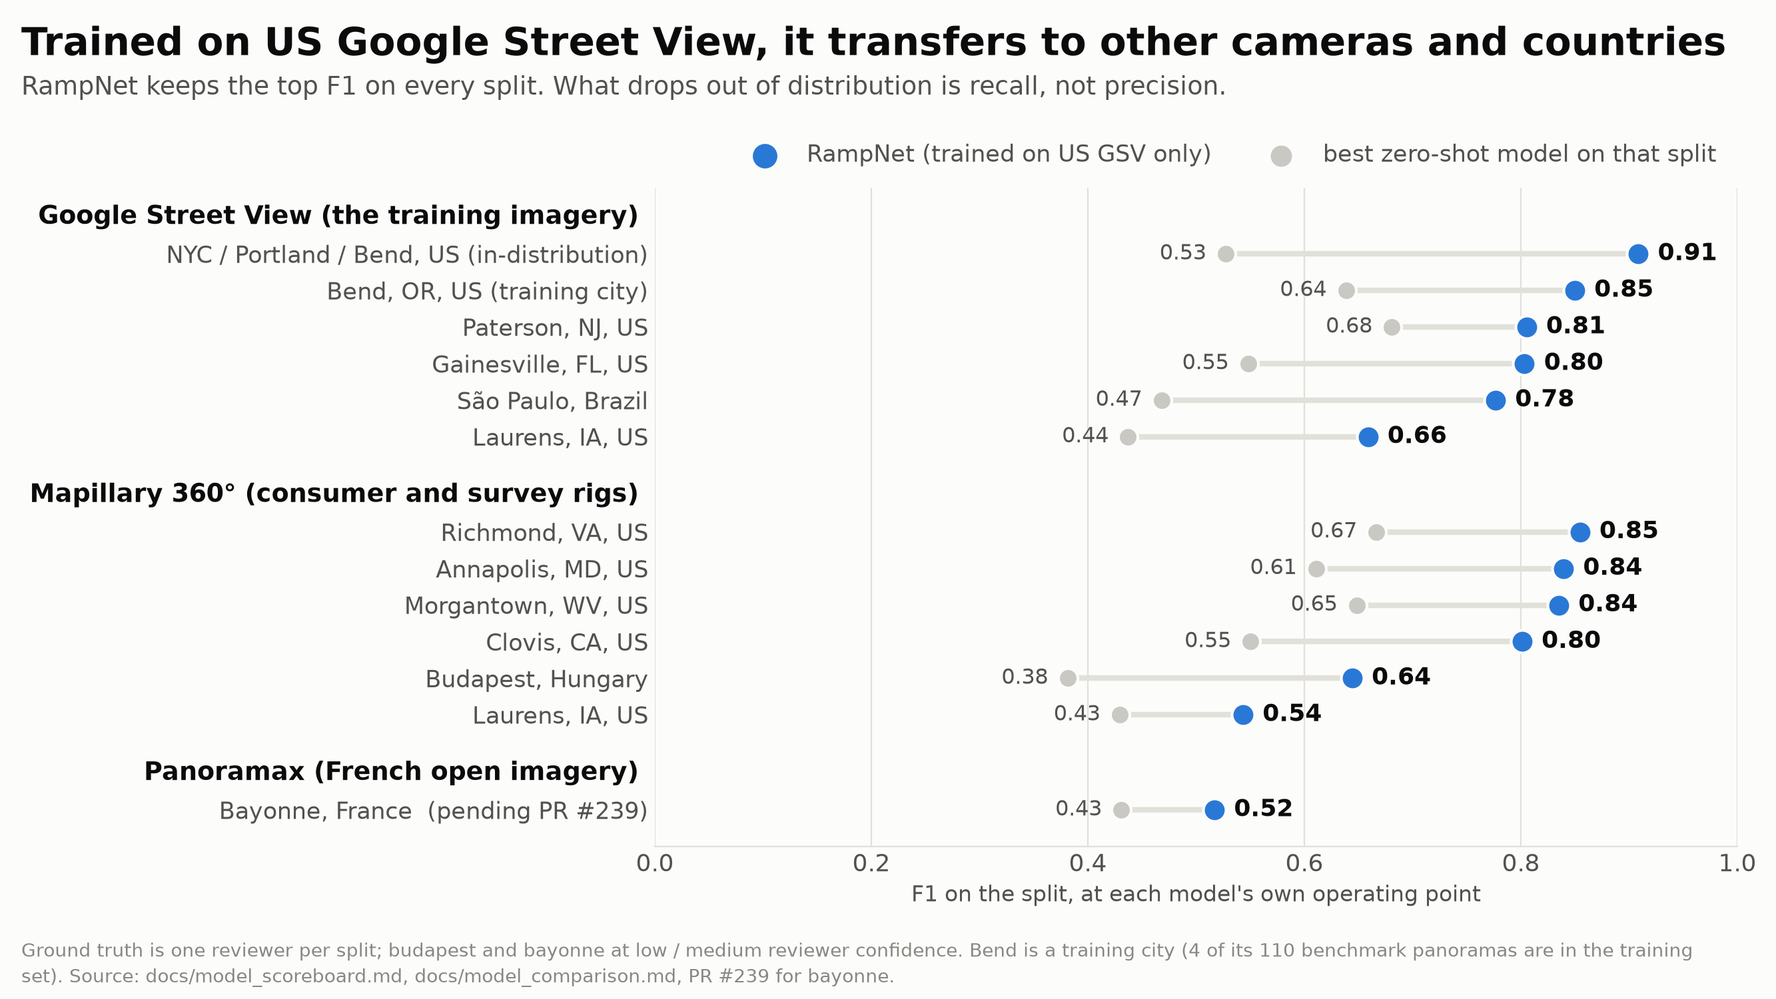
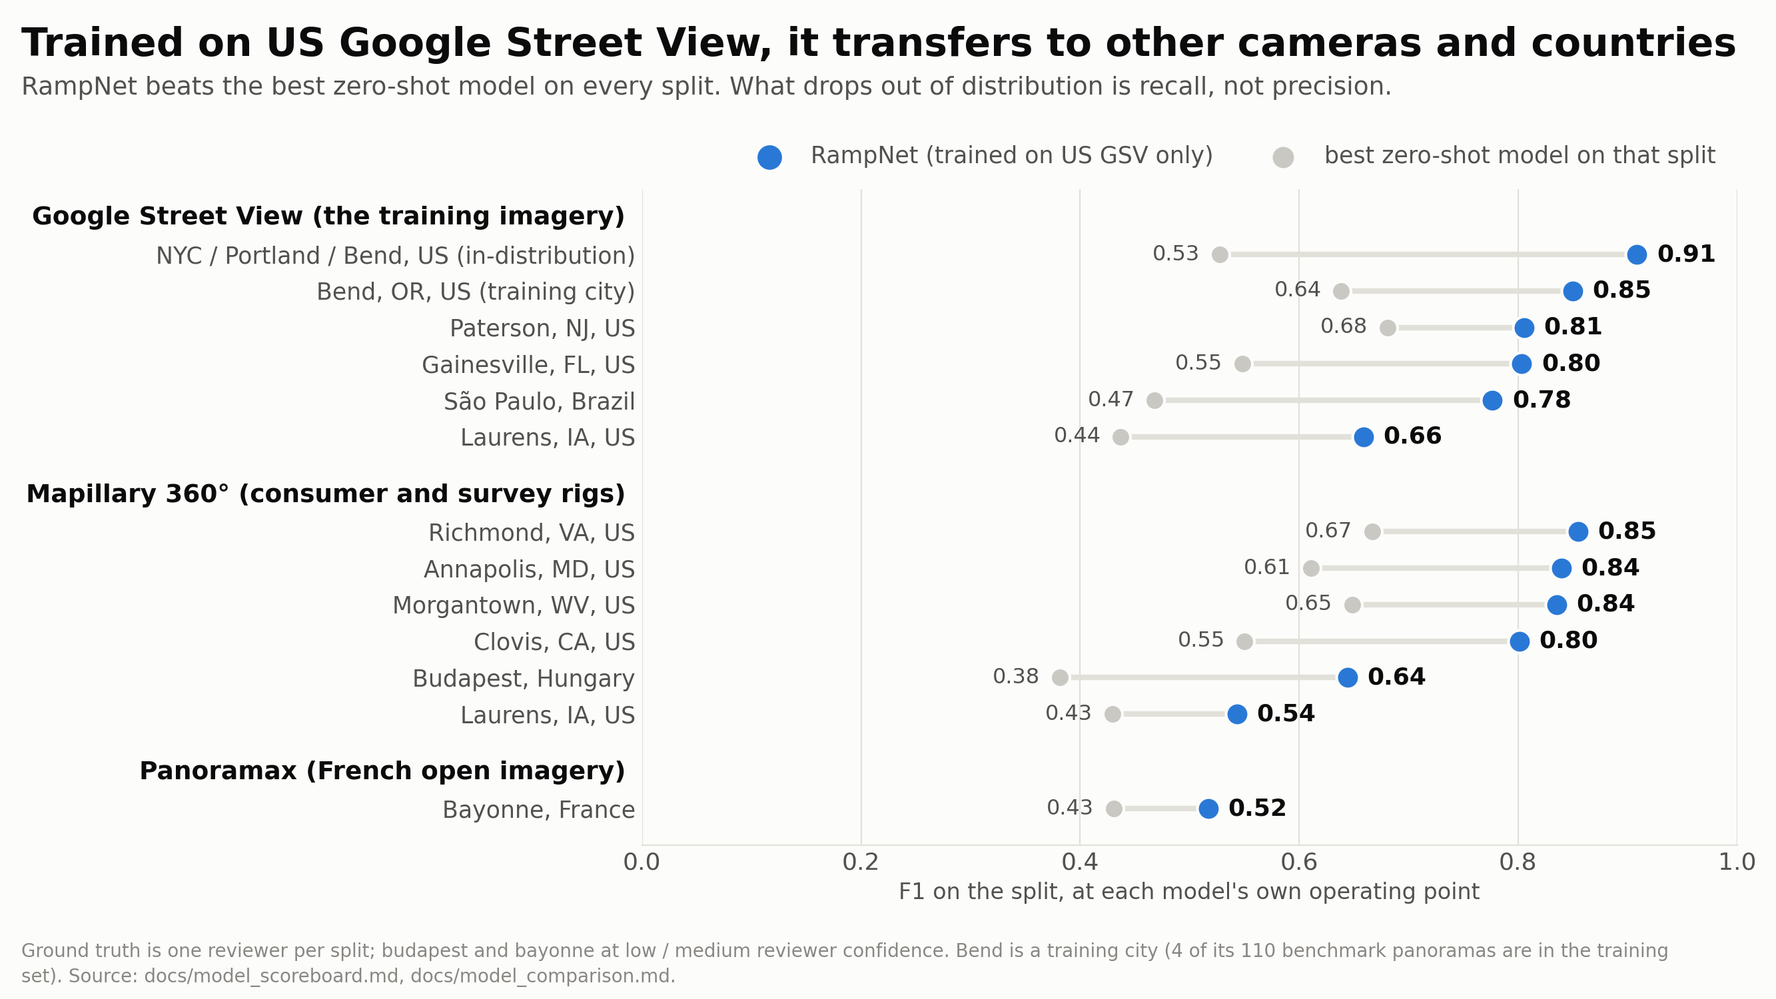
Talk figures: fix the transfer claim, per-split panos, drop Bayonne scaffolding
Review fixes for PR 242 (independent review, findings 1-4, 8, 10 text, 13, 14):

- Transfer subtitles said "RampNet keeps the top F1 on every split"; on
  laurens_mapillary YOLO26 (0.574) and YOLO11l (0.563) beat RampNet (0.543),
  rampnet1_findings.md row 27. Now "beats the best zero-shot model on every
  split"; the exception is a speaker note on slide 5. US subtitle shortened
  to fit the slide width.
- --pano-dir (one dir, bend) replaced by --bench-root; pipeline, heatmap and
  measure each read <root>/<split>/panos, so the one-command regeneration no
  longer crashes at heatmap. README gives the unpack + render commands and
  says which three figures need panos.
- Bayonne merged to main (PR 239): BAYONNE constant, "(pending PR #239)"
  label and footnote removed; every transfer row reads scoreboard.json.
- Slide 4: thirteen bundles, 0.09 (bayonne) to 0.34 (manual_gold vs Gemini
  3.1 Pro; 0.38 vs the best challenger in scoreboard.json). Slide 5: thirteen
  bundles, four countries.
- Showcase: 10 splits, 2 imagery sources, 3 countries (re-derived from
  showcase/manifest.json). Slide 6: "beyond 18 m" restored (findings row 34).
- Fly-around scene inputs pointed at analysis_out/crossview_align_48/scenes.

Regenerated: transfer_imagery_country.png, transfer_imagery_us.png. The
other eight repo-only figures render pixel-identical to the pre-fix code on
the same machine, so they are not recommitted.

Claude-Session: https://claude.ai/code/session_01X3eD3hDNQe6ZedrctnGGCN

diff --git a/scripts/talks/uchicago_2026_figures.py b/scripts/talks/uchicago_2026_figures.py
@@ -6,13 +6,16 @@ names its source. Output goes to ``docs/talks/uchicago_2026/``. Run from the rep
     python scripts/talks/uchicago_2026_figures.py            # all figures
     python scripts/talks/uchicago_2026_figures.py --only comparison
 
+``pipeline``, ``heatmap`` and ``measure`` read benchmark panoramas from
+``benchmark/{bend,paterson,richmond}/panos/`` (``--bench-root`` to point elsewhere); restore
+them with ``scripts/unpack_benchmark_panos.py``. Every other figure reads only committed files.
+
 Figures
 -------
 comparison_f1        pooled F1 over the eight US city splits, RampNet vs seven challengers
                      (``analysis_out/scoreboard.json``, the same rows as docs/model_scoreboard.md)
 transfer             RampNet F1 vs the best zero-shot model on every split, grouped by imagery
-                     source and labelled by country (``scoreboard.json`` plus the Bayonne rows
-                     from PR #239 until that PR merges, see BAYONNE)
+                     source and labelled by country (``analysis_out/scoreboard.json``)
 recall_by_distance   recall and precision by distance band on richmond + bend
                      (``docs/detection_recall_analysis.md`` §1-§2; see RECALL_BY_DISTANCE)
 deployment           human-validated precision of the AI's labels on three live Project
@@ -39,15 +42,6 @@ OUT_DIR = os.path.join(REPO, "docs", "talks", "uchicago_2026")
 # ---------------------------------------------------------------------------------------------
 # Constants that are NOT re-derived here. Each names where it was read from.
 # ---------------------------------------------------------------------------------------------
-
-# Bayonne (France, Panoramax) is scored on PR #239 (branch benchmark/bayonne-verdicts-159),
-# read from that branch's analysis_out/scoreboard.json on 2026-10-05. Once #239 merges,
-# scoreboard.json on main carries the split and this block is ignored (see transfer_rows).
-BAYONNE = {
-    "rampnet": {"precision": 0.831, "recall": 0.375, "f1": 0.517},
-    "best_zero_shot": {"display": "Gemini 3.1 Pro", "f1": 0.431},
-    "n_gt": 301,
-}
 
 # docs/detection_recall_analysis.md §1 (recall) and §2 (precision): richmond + bend, 637
 # reviewer-confirmed ramps, deployment detections at 0.55, flat-ground distance at an assumed
@@ -250,20 +244,16 @@ def transfer_rows(board):
     display = {m["model"]: m["display"] for m in board["models"]}
     rows = []
     for split, (group, place) in SPLIT_META.items():
-        if split in per["rampnet"]:
-            r = per["rampnet"][split]
-            best = max(((display[m], per[m][split]["f1"]) for m in per
-                        if classes.get(m) in ZERO_SHOT_CLASSES and split in per[m]
-                        and per[m][split].get("f1") is not None),
-                       key=lambda t: t[1], default=(None, None))
-            rows.append(dict(split=split, group=group, place=place, precision=r["precision"],
-                             recall=r["recall"], f1=r["f1"], n_gt=r["n_gt_recall"],
-                             best_display=best[0], best_f1=best[1], source="scoreboard.json"))
-        elif split == "bayonne":
-            b = BAYONNE
-            rows.append(dict(split=split, group=group, place=place, **b["rampnet"],
-                             n_gt=b["n_gt"], best_display=b["best_zero_shot"]["display"],
-                             best_f1=b["best_zero_shot"]["f1"], source="PR #239"))
+        if split not in per["rampnet"]:
+            continue
+        r = per["rampnet"][split]
+        best = max(((display[m], per[m][split]["f1"]) for m in per
+                    if classes.get(m) in ZERO_SHOT_CLASSES and split in per[m]
+                    and per[m][split].get("f1") is not None),
+                   key=lambda t: t[1], default=(None, None))
+        rows.append(dict(split=split, group=group, place=place, precision=r["precision"],
+                         recall=r["recall"], f1=r["f1"], n_gt=r["n_gt_recall"],
+                         best_display=best[0], best_f1=best[1]))
     return rows
 
 
@@ -304,9 +294,8 @@ def fig_transfer(board, plt, us_only=False):
                     color=INK, fontweight="bold")
             ax.text(r["best_f1"] - 0.018, y, f"{r['best_f1']:.2f}", va="center", ha="right",
                     fontsize=11.5, color=INK_SECONDARY)
-            label = r["place"] + ("  (pending PR #239)" if r["source"] != "scoreboard.json" else "")
             yticks.append(y)
-            ylabels.append(label)
+            ylabels.append(r["place"])
             y -= 1
         y -= 0.6
     for hy, g in header_y:
@@ -328,8 +317,8 @@ def fig_transfer(board, plt, us_only=False):
 
     if us_only:
         _titles(fig, "Trained on Google Street View, it transfers to other cameras",
-                f"{len(rows)} US splits, two imagery sources, five camera rigs. RampNet keeps the "
-                "top F1 on every split; what drops is recall, not precision.")
+                f"{len(rows)} US splits, five camera rigs. RampNet beats the "
+                "best zero-shot model on every split; what drops is recall, not precision.")
         bottom = _footnote(fig,
                            "Ground truth is one reviewer per split. Bend is a training city (4 of "
                            "its 110 benchmark panoramas are in the training set). Laurens is one "
@@ -338,13 +327,13 @@ def fig_transfer(board, plt, us_only=False):
         name = "transfer_imagery_us.png"
     else:
         _titles(fig, "Trained on US Google Street View, it transfers to other cameras and countries",
-                "RampNet keeps the top F1 on every split. What drops out of distribution is "
+                "RampNet beats the best zero-shot model on every split. What drops out of distribution is "
                 "recall, not precision.")
         bottom = _footnote(fig,
                            "Ground truth is one reviewer per split; budapest and bayonne at low / "
                            "medium reviewer confidence. Bend is a training city (4 of its 110 "
                            "benchmark panoramas are in the training set). Source: "
-                           "docs/model_scoreboard.md, docs/model_comparison.md, PR #239 for bayonne.")
+                           "docs/model_scoreboard.md, docs/model_comparison.md.")
         name = "transfer_imagery_country.png"
     fig.tight_layout(rect=(0, bottom, 1, 0.885))
     _save(fig, name)
@@ -445,9 +434,17 @@ def fig_deployment(plt):
 
 EXAMPLE_PANO = "DJ8Zp111zu6KnMZz-0PHgQ"
 EXAMPLE_ROW = os.path.join(OUT_DIR, f"stage1_example_{EXAMPLE_PANO}.json")
-# benchmark/*/panos/ is gitignored (the imagery is on the Hub; scripts/unpack_benchmark_panos.py
-# restores it, sha256-pinned by benchmark/bend/imagery_manifest.json). --pano-dir points at it.
-BEND_PANO_DIR = os.path.join(REPO, "benchmark", "bend", "panos")
+# benchmark/<split>/panos/ is gitignored (the imagery is on the Hub; scripts/unpack_benchmark_panos.py
+# restores it, sha256-pinned by benchmark/<split>/imagery_manifest.json). --bench-root points at
+# the directory holding the <split>/panos/ folders; each figure builds its own split's path.
+BENCH_ROOT = os.path.join(REPO, "benchmark")
+
+
+def _pano_path(bench_root, split, pano):
+    """``<bench_root>/<split>/panos/<pano>.jpg``, the layout unpack_benchmark_panos.py writes."""
+    return os.path.join(bench_root, split, "panos", f"{pano}.jpg")
+
+
 BEND_RECORDS = os.path.join(REPO, "benchmark", "bend", "records.jsonl")
 BEND_RAMPS = os.path.join(REPO, "stage_one", "dataset_generation", "location_data", "bend.geojson")
 BEND_STREETS = os.path.join(REPO, "stage_one", "dataset_generation", "street_data",
@@ -475,7 +472,7 @@ def _bearing_to_x(bearing_deg, heading_deg):
     return (((bearing_deg - heading_deg) % 360.0) / 360.0 + 0.5) % 1.0
 
 
-def fig_pipeline(plt, pano_dir=BEND_PANO_DIR):
+def fig_pipeline(plt, bench_root=BENCH_ROOT):
     import gzip
     import math
     import numpy as np
@@ -507,7 +504,7 @@ def fig_pipeline(plt, pano_dir=BEND_PANO_DIR):
     assert len(used) == len(row["curb_ramp_coords"]) == len(labels) == 4, (len(used), len(labels))
 
     Image.MAX_IMAGE_PIXELS = None
-    img = Image.open(os.path.join(pano_dir, f"{EXAMPLE_PANO}.jpg"))
+    img = Image.open(_pano_path(bench_root, "bend", EXAMPLE_PANO))
     img.draft("RGB", (4096, 2048))
     img = img.convert("RGB").resize((4096, 2048), Image.BILINEAR)
     W, H = img.size
@@ -647,7 +644,7 @@ def _heat_overlay(img_band, heat_band):
     return Image.fromarray((tint * (1 - alpha) + rgb * alpha).round().astype(np.uint8))
 
 
-def fig_heatmap(plt, pano_dir, split=HEATMAP_SPLIT, pano=HEATMAP_PANO):
+def fig_heatmap(plt, bench_root=BENCH_ROOT, split=HEATMAP_SPLIT, pano=HEATMAP_PANO):
     import numpy as np
     from PIL import Image
     from skimage.feature import peak_local_max
@@ -662,7 +659,7 @@ def fig_heatmap(plt, pano_dir, split=HEATMAP_SPLIT, pano=HEATMAP_PANO):
     missed = verdict.get("missed", [])
 
     Image.MAX_IMAGE_PIXELS = None
-    img = Image.open(os.path.join(pano_dir, f"{pano}.jpg"))
+    img = Image.open(_pano_path(bench_root, split, pano))
     img.draft("RGB", (4096, 2048))
     img = img.convert("RGB").resize((4096, 2048), Image.BILINEAR)
     b0, b1 = HEAT_BAND
@@ -955,7 +952,7 @@ def fig_comparison_city(board, plt, split="annapolis"):
 MEASURE_SPLIT, MEASURE_PANO, MEASURE_KEY = "richmond", "1335429861397399", "det:0"
 
 
-def fig_measure(plt, pano_dir, split=MEASURE_SPLIT, pano=MEASURE_PANO, key=MEASURE_KEY):
+def fig_measure(plt, bench_root=BENCH_ROOT, split=MEASURE_SPLIT, pano=MEASURE_PANO, key=MEASURE_KEY):
     """One ramp: the keypoint, the whole-apron extent box (benchmark/<split>/boxes.json), the
     metric range from calibrated Depth Anything 3 (analysis_out/da3_calibration_101), and the
     width that follows; slope is marked as the measurement that does not exist yet."""
@@ -982,7 +979,7 @@ def fig_measure(plt, pano_dir, split=MEASURE_SPLIT, pano=MEASURE_PANO, key=MEASU
             if key.startswith("det:") else None)
 
     Image.MAX_IMAGE_PIXELS = None
-    img = Image.open(os.path.join(pano_dir, f"{pano}.jpg"))
+    img = Image.open(_pano_path(bench_root, split, pano))
     img.draft("RGB", (4096, 2048))
     img = img.convert("RGB").resize((4096, 2048), Image.LANCZOS)
     W, H = img.size
@@ -1053,10 +1050,10 @@ def fig_measure(plt, pano_dir, split=MEASURE_SPLIT, pano=MEASURE_PANO, key=MEASU
 # ---------------------------------------------------------------------------------------------
 
 FIGURES = {
-    "pipeline": lambda board, plt, pano_dir: fig_pipeline(plt, pano_dir),
-    "heatmap": lambda board, plt, pano_dir: fig_heatmap(plt, pano_dir),
+    "pipeline": lambda board, plt, bench_root: fig_pipeline(plt, bench_root),
+    "heatmap": lambda board, plt, bench_root: fig_heatmap(plt, bench_root),
     "roadmap": lambda board, plt, _: fig_roadmap(plt),
-    "measure": lambda board, plt, pano_dir: fig_measure(plt, pano_dir),
+    "measure": lambda board, plt, bench_root: fig_measure(plt, bench_root),
     "comparison": lambda board, plt, _: fig_comparison(board, plt),
     "comparison_v2": lambda board, plt, _: fig_comparison(board, plt, v2=True),
     "comparison_pr": lambda board, plt, _: fig_comparison_pr(board, plt),
@@ -1073,8 +1070,10 @@ def main(argv=None):
     ap = argparse.ArgumentParser(description=__doc__.split("\n\n")[0])
     ap.add_argument("--only", choices=sorted(FIGURES), action="append",
                     help="render only these figures (repeatable)")
-    ap.add_argument("--pano-dir", default=BEND_PANO_DIR,
-                    help="directory holding the bend benchmark panoramas (for 'pipeline')")
+    ap.add_argument("--bench-root", default=BENCH_ROOT,
+                    help="directory holding benchmark/<split>/panos/ (needed by 'pipeline' "
+                         "[bend], 'heatmap' [paterson] and 'measure' [richmond]; the other "
+                         "figures read only committed files)")
     args = ap.parse_args(argv)
     import matplotlib
     matplotlib.use("Agg")
@@ -1082,7 +1081,7 @@ def main(argv=None):
     plt.rcParams["font.family"] = "DejaVu Sans"
     board = load_board()
     for name in (args.only or sorted(FIGURES)):
-        FIGURES[name](board, plt, args.pano_dir)
+        FIGURES[name](board, plt, args.bench_root)
 
 
 if __name__ == "__main__":

diff --git a/docs/talks/uchicago_2026/README.md b/docs/talks/uchicago_2026/README.md
@@ -1,15 +1,21 @@
 # RampNet slides for the UChicago Distinguished Lecture (October 2026)
 
-**Status: draft outline and figures, 2026-10-05.** Six to seven slides on RampNet inside a talk on
-urban computing. Every number here is read from [`rampnet1_findings.md`](../../rampnet1_findings.md)
-or from the source named beside it; the figures regenerate with
+**Status: draft, 2026-10-11.** Slide outline, 13 slide figures, four system diagrams, a heatmap
+demo, a 32-panorama showcase video, two Street View time-lapses, and a record of a 3D fly-around
+attempt that is not talk-ready. Six to seven slides on RampNet inside a talk on urban computing.
+Every number here is read from [`rampnet1_findings.md`](../../rampnet1_findings.md) or from the
+source named beside it; the figures regenerate with
 
 ```
-python scripts/talks/uchicago_2026_figures.py --pano-dir benchmark/bend/panos
+python scripts/unpack_benchmark_panos.py --out . --cities bend,paterson,richmond
+python scripts/talks/uchicago_2026_figures.py
 ```
 
-(`--pano-dir` is only needed for the pipeline figure; the benchmark imagery is on the Hub and
-`scripts/unpack_benchmark_panos.py` restores it. The other four figures need nothing but the repo.)
+Three figures read benchmark panoramas, each from its own split: `pipeline` (bend), `heatmap`
+(paterson) and `measure` (richmond), under `benchmark/<split>/panos/` (`--bench-root` points
+elsewhere). The panoramas are gitignored; the first command restores them from the Hub,
+sha256-checked. The other ten figures read only committed files, so
+`--only <name>` for any of them needs nothing but the repo.
 
 Numbers not to put on a slide, because they were superseded: a 0.039 or 0.252 RampNet-vs-YOLO gap,
 "blind at the seam", "72% seam dropout", any Tillicum cost other than the ledgered one. The list is
@@ -58,7 +64,8 @@ band above and the heatmap below with a ring on every peak ≥ 0.55, captioned w
 and the reviewer's verdict. Selection is mechanical from the committed verdicts
 (`showcase/manifest.json`): per split, the two panoramas with the most confirmed ramps where every
 detection was confirmed and nothing was missed, plus one seeded-random other, plus four true
-negatives (no ramps, no detections). Eleven splits, three imagery sources, four countries. The
+negatives (no ramps, no detections). Ten splits (laurens_gsv contributes none), two imagery
+sources (GSV, Mapillary), three countries (US, Brazil, Hungary). The
 32 heatmaps are committed as 8-bit PNGs; frames and the mp4 are not (regenerate with
 `uchicago_2026_showcase.py render` then `video`, needs ffmpeg).
 
@@ -69,7 +76,7 @@ Three baselines, in increasing strength:
 | baseline | number | source |
 |---|---|---|
 | Prior curb-ramp detectors | Weld et al. 0.38 AP on our gold set vs RampNet 0.92; Tohme and Weld were at 26–34% precision | paper §2, `rampnet1_report.md` §3 |
-| Nine zero-shot models (Gemini 3.1 Pro, Claude Opus 5, Qwen3-VL, Molmo2, OWLv2, Grounding DINO, ...) | RampNet 0.792 pooled F1 over eight US cities vs 0.575 for the best; leads on all twelve bundles by 0.11–0.34 | `model_scoreboard.md`, findings §2 row 1 |
+| Nine zero-shot models (Gemini 3.1 Pro, Claude Opus 5, Qwen3-VL, Molmo2, OWLv2, Grounding DINO, ...) | RampNet 0.792 pooled F1 over eight US cities vs 0.575 for the best; leads on all thirteen bundles, by 0.09 (bayonne) to 0.34 (manual_gold, against Gemini 3.1 Pro; 0.38 against the best challenger re-derivable from `scoreboard.json`) | `model_scoreboard.md`, findings §2 row 1 |
 | A supervised YOLO trained on the same dataset | 0.599 at its default threshold; at matched operating points and across seeds the gap is 0.016 F1, 95% CI [0.008, 0.024] | `seed_variance_51_135.md`, findings §2 row 3 |
 
 The honest framing, which Jon chose: the dataset is the result; the keypoint formulation is a
@@ -88,24 +95,28 @@ manual_gold detections, so the pooled mean would not be over the same models.
 
 ## Slide 5. Trained on US Google Street View, it transfers to other cameras and countries
 
-- Twelve benchmark bundles, three imagery sources (GSV, Mapillary 360° on consumer and survey rigs,
-  Panoramax), four countries (US, Brazil, Hungary, France). RampNet keeps the top F1 on every split.
+- Thirteen benchmark bundles, three imagery sources (GSV, Mapillary 360° on consumer and survey
+  rigs, Panoramax), four countries (US, Brazil, Hungary, France). RampNet beats the best zero-shot
+  model on every split.
+- Speaker note, the exception that must not be hidden: on `laurens_mapillary` the supervised YOLO
+  baseline beats RampNet at the pre-registered conf 0.25, YOLO26 0.574 (and YOLO11l 0.563) against
+  RampNet 0.543 (`rampnet1_findings.md` §2 row 27). It is an operating-point result: RampNet's AP
+  there is still the highest. The ordering reverses on the GSV arm of the same town.
 - What drops out of distribution is recall, not precision: the generalization gap from the gold set
   to deployed cities is −0.12 for RampNet, −0.19 to −0.28 for the YOLO arms; zero-shot models sit on
   the diagonal (`figures/scoreboard_generalization.png` is slide-ready as is).
 - Same rural town, two cameras: GoPro Max 0.54, GSV 0.66. The rig matters more than the town.
 - Bayonne (France, Panoramax) is the newest and weakest: F1 0.52, recall 0.38, still the top F1 on
-  the split by 0.09. It is on [PR #239](https://github.com/ProjectSidewalk/RampNet/pull/239), not
-  yet on main, and its ground truth is single-rater at medium confidence.
+  the split by 0.09. Its ground truth is single-rater at medium confidence.
 
 Figure: `transfer_imagery_country.png` (RampNet vs the best zero-shot model per split, grouped by
-imagery source, labelled by country). Reads bayonne from a constant in the script until #239 merges.
+imagery source, labelled by country). Every row is read from `analysis_out/scoreboard.json`.
 
 ## Slide 6. Where recall goes
 
 - Recall is distance-limited; precision is not. Recall 0.84 within 8 m, 0.56 at 18–25 m, 0.18 past
-  25 m; precision 0.94–1.00 in every band. Culling far detections would lose 132 true ramps to
-  remove 4 false ones.
+  25 m; precision 0.94–1.00 in every band. Culling detections beyond 18 m would lose 132 true
+  ramps to remove 4 false ones.
 - The levers are the decoder and calibration, not vocabulary: of 427 misses, 29% were merged with a
   neighbour's peak, 39% fired below threshold, and only 8% of the silent remainder show no response.
   A bigger corpus of the same kind buys ~0.013 recall points.
@@ -161,7 +172,9 @@ Three more future-work figures, each from real data:
   (v2, 2026-10-05 evening) A dense pass: `uchicago_2026_dense_scene.py` runs MapAnything on six
   posed faces of every panorama of a corner on makelab2 (132 views, 21 s, 27M points) and
   writes point maps, a merged cloud and a COLMAP model (`flyaround/dense/<slug>/`, large files
-  gitignored, on makelab2 under `talk_dense/`). From that, two renderers:
+  gitignored, on makelab2 under `talk_dense/`). Its input is the posed scenes committed at
+  `analysis_out/crossview_align_48/scenes/{bend_7,richmond_99}/{cameras,points}.json`; pass that
+  folder as `--scenes` (the makelab2 launchers use a path on that box). From that, two renderers:
   `uchicago_2026_mesh.py` fuses the point maps into one TSDF surface (Open3D VoxelBlockGrid,
   5 cm; the legacy ScalableTSDFVolume and the Filament offscreen renderer are broken in the
   0.20 Windows wheel, pyrender draws it) and renders a shared camera path; `klone_splat_train.py`
@@ -192,12 +205,12 @@ Four SVGs (PowerPoint imports them as editable shapes) with PNG renders, from
 
 | file | slide | inputs |
 |---|---|---|
-| `pipeline_stage1.png` | 2 | `stage1_example_DJ8Zp111zu6KnMZz-0PHgQ.json`, `benchmark/bend/{records.jsonl,panos/}`, Bend inventory and streets geojson |
+| `pipeline_stage1.png` | 2 | `stage1_example_DJ8Zp111zu6KnMZz-0PHgQ.json`, `benchmark/bend/{records.jsonl,panos/}`, Bend inventory and streets geojson (`--only pipeline`) |
 | `comparison_f1.png` | 4 | `analysis_out/scoreboard.json` |
 | `comparison_f1_v2.png` | 4 | same chart with the N stated: cities, panoramas, ramps, challengers and providers (`--only comparison_v2`) |
-| `transfer_imagery_country.png` | 5 | `analysis_out/scoreboard.json`; bayonne from PR #239 (constant in the script) |
+| `transfer_imagery_country.png` | 5 | `analysis_out/scoreboard.json` |
 | `transfer_imagery_us.png` | 5 | same, US splits only, so it reads as camera transfer alone (`--only transfer_us`) |
-| `heatmap_demo_paterson.png` | 3 | `heatmap_paterson_*.npz` (from `uchicago_2026_heatmap.py`, GPU), `benchmark/paterson/{records.jsonl,verdicts.json,panos/}` |
+| `heatmap_demo_paterson.png` | 3 | `heatmap_paterson_*.npz` (from `uchicago_2026_heatmap.py`, GPU), `benchmark/paterson/{records.jsonl,verdicts.json,panos/}` (`--only heatmap`) |
 | `showcase/showcase.mp4` | 3 | `showcase/manifest.json`, `showcase/heat_*.png` (from `uchicago_2026_showcase.py infer`, GPU), benchmark panos; frames + mp4 regenerate with `render` and `video` |
 | `comparison_pr.png` | 4 | `analysis_out/scoreboard.json` (`--only comparison_pr`) |
 | `comparison_f1_with_gold.png` | 4 | `analysis_out/scoreboard.json` (`--only comparison_gold`) |
